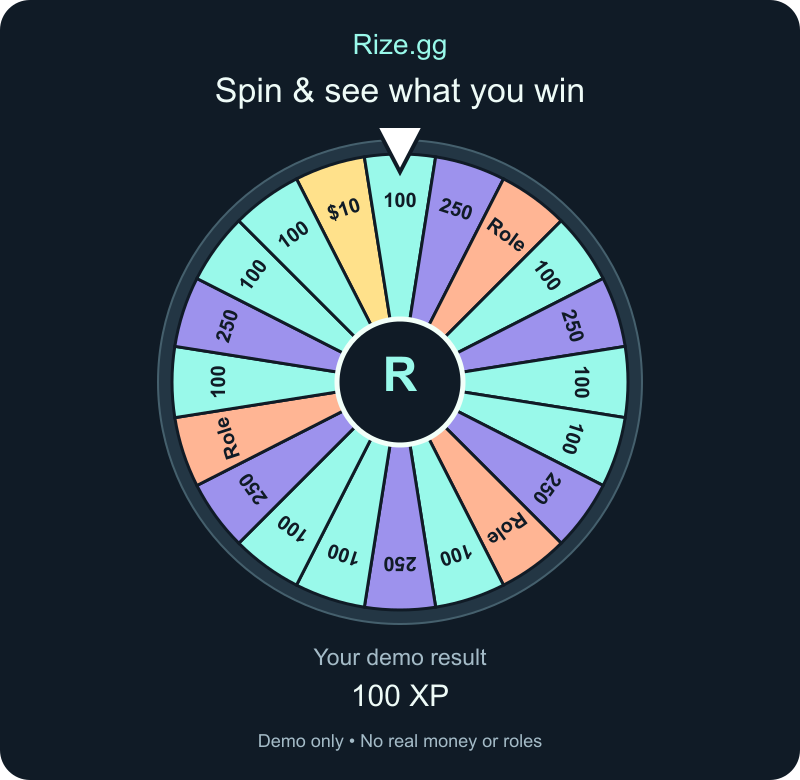
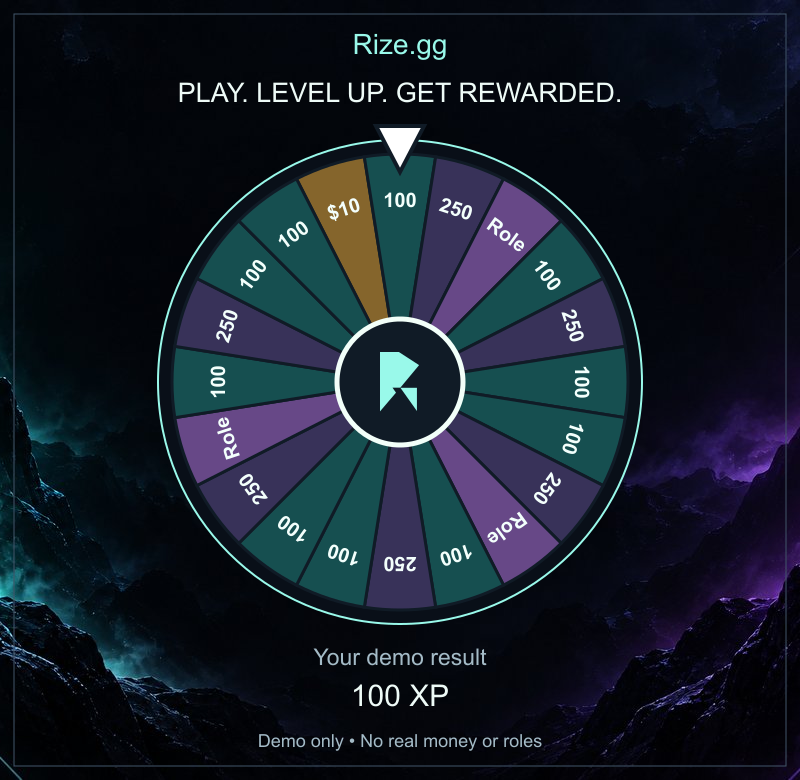
Apply Rize brand design to panels and animated wheel

diff --git a/demo.js b/demo.js
@@ -37,10 +37,10 @@ export class DemoRewards {
   }
 }
 const asset=name=>({attachment:fileURLToPath(new URL(`./${name}`,import.meta.url)),name});
-const controls=()=>[row(button('demo:wheel','🎡 Spin the wheel',ButtonStyle.Success),button('demo:profile','My balance'))];
+const controls=()=>[row(button('demo:wheel','Spin the wheel',ButtonStyle.Success),button('demo:profile','My balance'))];
 const privateControls=()=>[...controls(),row(button('demo:xp','Try adding XP'),button('demo:reset','Reset demo'))];
 export function demoPanel() {
-  return {embeds:[embed('🎡 Rize.gg Prize Wheel','3 demo tickets to start · 1 ticket per spin\n**Demo only — no real money or roles awarded.**').setImage('attachment://wheel.png')
+  return {embeds:[embed('Rize.gg Rewards','3 demo tickets to start · 1 ticket per spin\n**Demo only — no real money or roles awarded.**').setImage('attachment://wheel.png')
     .setFooter({text:DEMO_MARKER})],components:controls(),allowedMentions:{parse:[]}};
 }
 export async function ensureDemoPanel(channel,client,store) {

diff --git a/ui.js b/ui.js
@@ -28,7 +28,7 @@ export function size(game, rank) {
 export const gameButtons = store => row(...Object.entries(GAMES).map(([key,g])=>button(`pick:${key}`,`${g.emoji} ${g.name} · ${ar(store.active(key).length)}`)));
 export function panel(store) {
   const total = new Set(store.active().map(a=>a.user)).size;
-  return {embeds:[embed('🎮 Just pick a game','Get notified or find a teammate.').setImage('attachment://lfg-banner.png')],
+  return {embeds:[embed('Find your team','Choose a game below, then get notified or find a player.\nThe number beside each game shows players ready now.').setImage('attachment://lfg-banner.png')],
     components:[gameButtons(store),row(button('games',`Games · ${ar(total)} ready`),button('mine','My status'))],allowedMentions:{parse:[]}};
 }
 export function requestView(r) {
